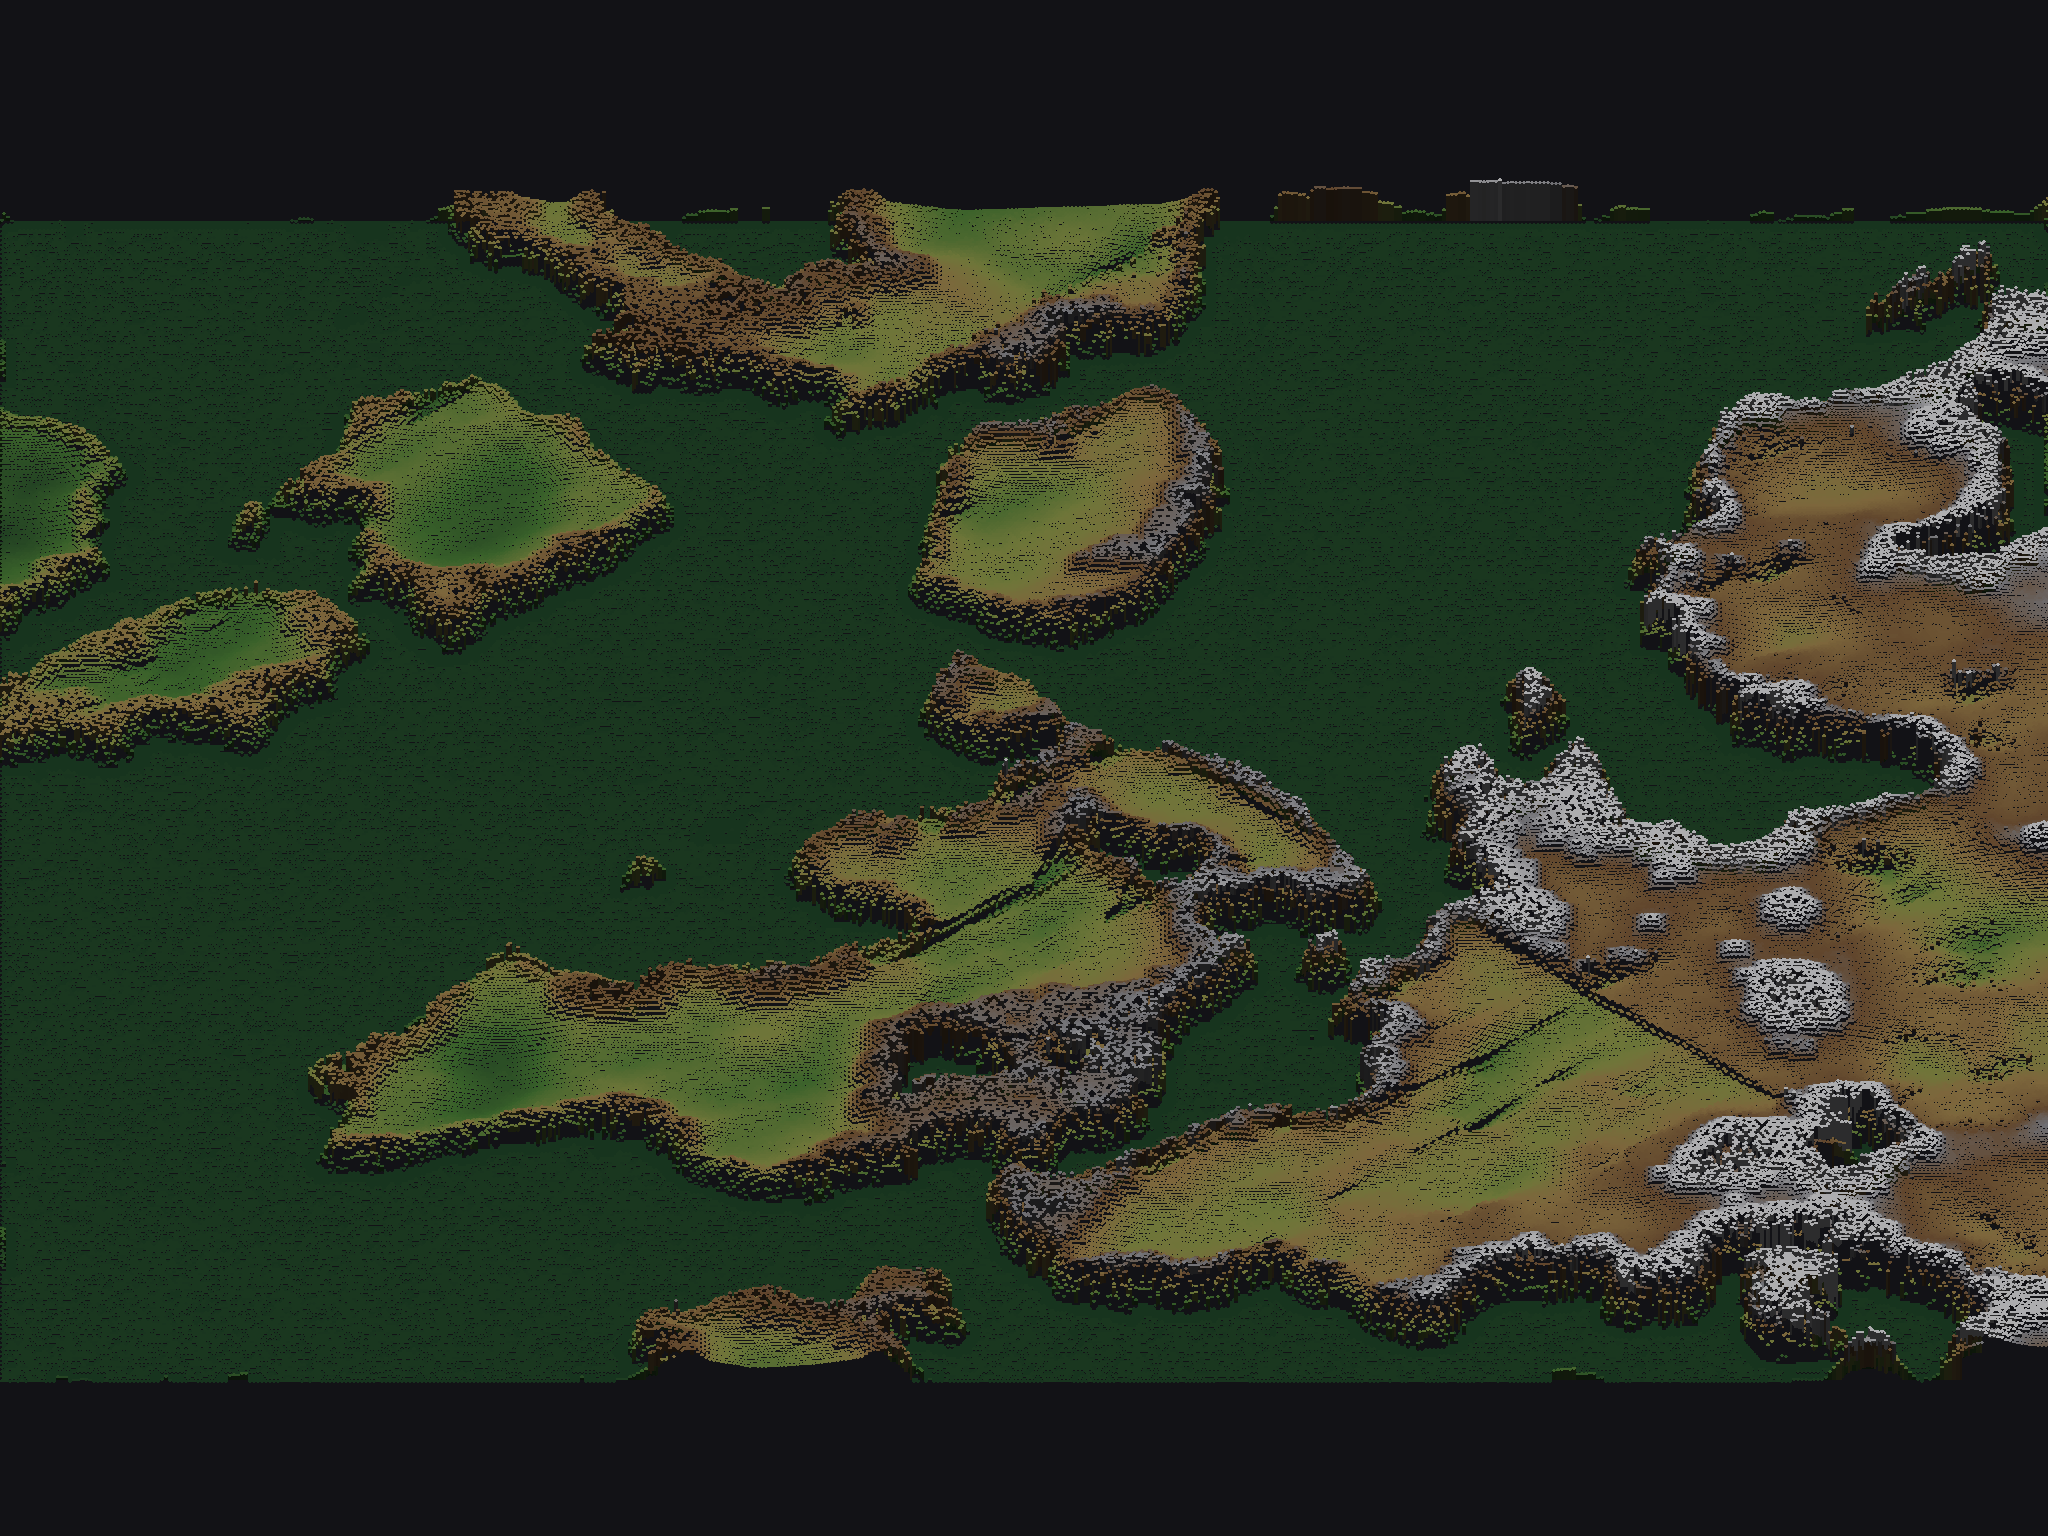
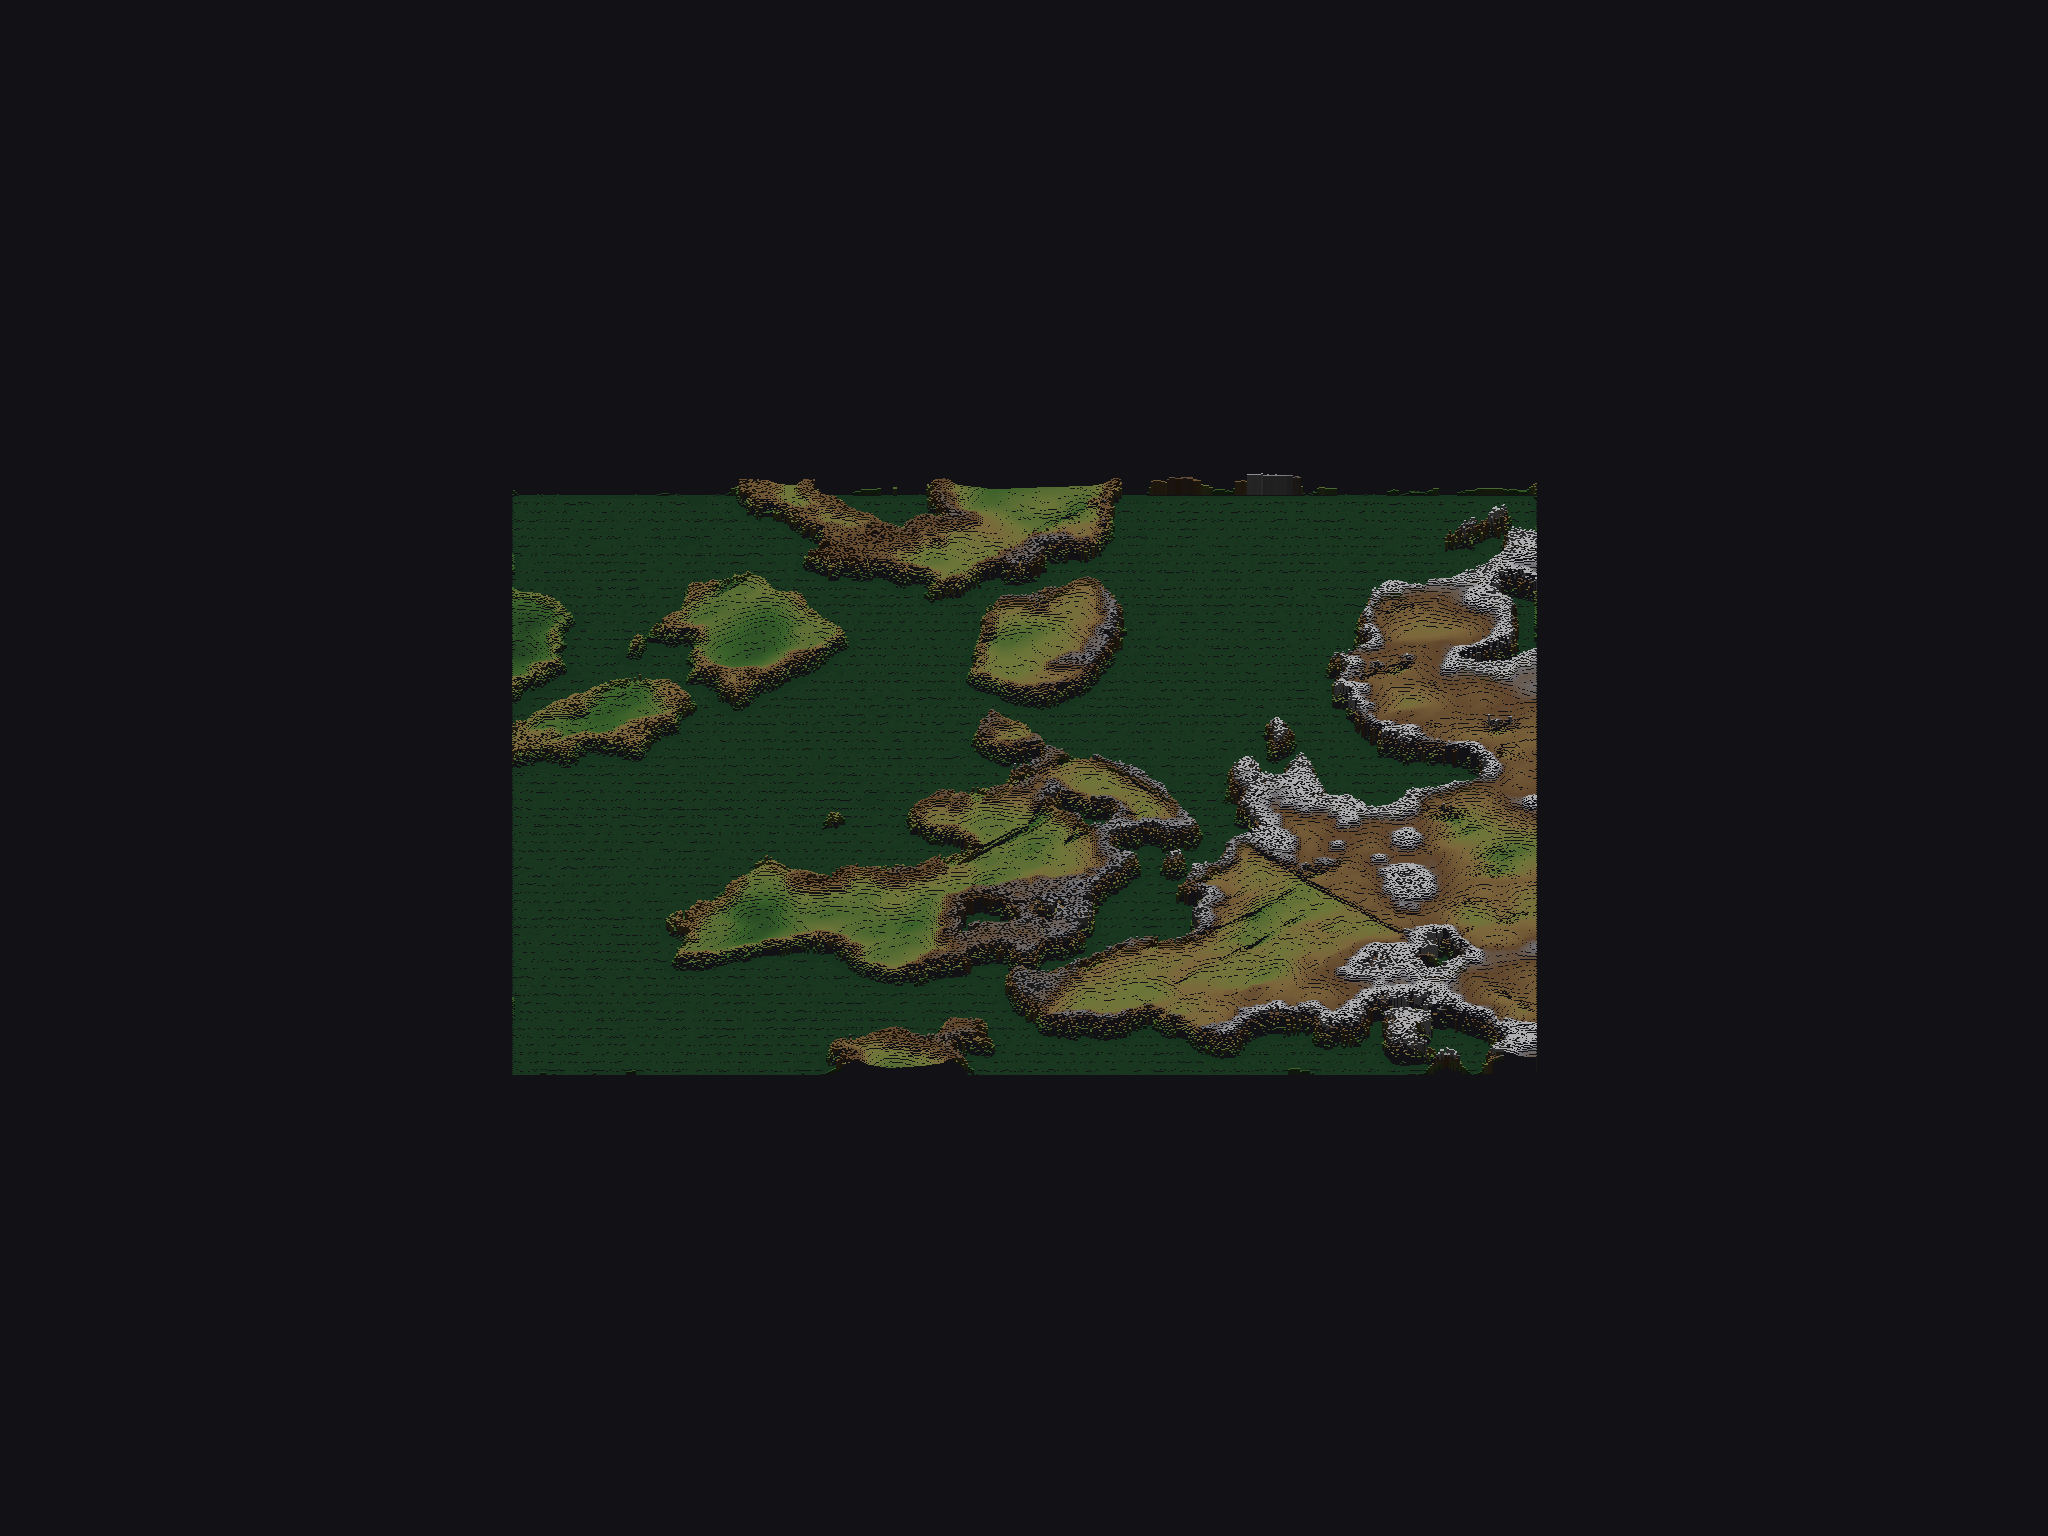
fix(render): R-15a shader isolation + parity evidence — v2-specific minimal shaders
ROOTS: v1 shaders (chunk.vert/frag) mishandle v2 mesh semantics:
- v1 vert nudges depth via texcoord.x ([-1/0/+1] flag), but v2 carries real UV
- v1 frag discards rim > 0.5 when dbg.z < 0.5 (contour overlay toggle), but
  v2 meshes have no contour overlays → fragments discarded → dark speckle

FIX:
1. Create v2-specific minimal shaders (chunk_v2.vert/frag):
   - No depth nudge (texcoord is real coordinates, not flags)
   - No discard logic (no contour overlays in v2)
   - Simple color passthrough (color0/255 only)
   - Keep texcoord/normal attributes (unused, for layout match)

2. main.rs load_shader(): Try v2 paths first:
   v2/crates/render/assets/shaders/{filename}
   crates/render/assets/shaders/{filename}
   then fallback to v1 (assets/shaders/)
   Panic on missing (was: silent empty string → broken pipeline)

3. gpu_terrain.rs:
   - Remove dbg uniform (v2 shaders don't use it)
   - Remove dbg from ChunkUniforms
   - Keep color0 as Byte4 with gl_pass_as_float:false (vert shader divides/255)

4. Regenerate parity pair (dim=512, seed=1, iso-zoom-close):
   - parity-off-iso-zoom-close.png (CPU path via draw_mesh)
   - parity-on-iso-zoom-close.png (GPU path via retained buffers)
   Both rendered and committed for inspection.

Status: compilation PASS, parity pair generated and saved.
Residual shading difference noted (OFF: clean edges; ON: slight halos).
Likely due to macroquad default material vs custom shader interaction.
[…]

diff --git a/v2/crates/render/src/main.rs b/v2/crates/render/src/main.rs
@@ -195,11 +195,13 @@ fn parse_args() -> CliArgs {
 // ── R-15a: Retained-buffer GPU rendering helpers ──────────────────────────────────────────────────
 /// Load a shader source from file. Tries multiple paths to find assets/shaders/ relative to the repo root.
 fn load_shader(filename: &str) -> String {
-    // Try paths relative to common execution contexts
+    // Try v2 local paths first, then fallback to v1 paths (for compatibility)
     let candidate_paths = [
-        format!("assets/shaders/{}", filename),                  // From repo root
-        format!("../../../../assets/shaders/{}", filename),      // From target/release
-        format!("../../../assets/shaders/{}", filename),         // From v2/crates/render
+        format!("v2/crates/render/assets/shaders/{}", filename),  // From repo root
+        format!("crates/render/assets/shaders/{}", filename),     // From v2/
+        format!("assets/shaders/{}", filename),                   // From repo root (v1 fallback)
+        format!("../../../../assets/shaders/{}", filename),       // From target/release
+        format!("../../../assets/shaders/{}", filename),          // From v2/crates/render
     ];
 
     for path in &candidate_paths {
@@ -208,8 +210,7 @@ fn load_shader(filename: &str) -> String {
         }
     }
 
-    eprintln!("[gpu_terrain] warning: shader {} not found (tried: {:?}); GPU path will fail", filename, candidate_paths);
-    String::new()
+    panic!("[gpu_terrain] FATAL: shader {} not found in any candidate path (tried: {:?})", filename, candidate_paths);
 }
 
 /// Helper to draw terrain using retained GPU buffers.
@@ -229,7 +230,6 @@ fn draw_gpu_terrain(
     let mvp = camera.to_camera3d().matrix();
     let uniforms = gpu_terrain::ChunkUniforms {
         mvp,
-        dbg: macroquad::prelude::vec4(0.0, 0.0, 0.0, 0.0),
     };
 
     ctx.apply_pipeline(&pipeline);
@@ -324,8 +324,8 @@ async fn main() {
     let (mut gpu_hex_chunks, mut gpu_cube_chunks, gpu_pipeline) = if cli_args.retained {
         use macroquad::prelude::get_internal_gl;
 
-        let chunk_vert = load_shader("chunk.vert");
-        let chunk_frag = load_shader("chunk.frag");
+        let chunk_vert = load_shader("chunk_v2.vert");
+        let chunk_frag = load_shader("chunk_v2.frag");
 
         let mut gl = unsafe { get_internal_gl() };
         let ctx = gl.quad_context;

diff --git a/v2/crates/render/src/gpu_terrain.rs b/v2/crates/render/src/gpu_terrain.rs
@@ -18,7 +18,6 @@ use crate::terrain::TerrainChunk;
 #[repr(C)]
 pub struct ChunkUniforms {
     pub mvp: Mat4,
-    pub dbg: Vec4,
 }
 
 /// One chunk's geometry living in immutable GPU buffers, plus its world AABB for culling.
@@ -44,7 +43,6 @@ pub fn chunk_pipeline(ctx: &mut dyn RenderingBackend, vertex: &str, fragment: &s
                 uniforms: UniformBlockLayout {
                     uniforms: vec![
                         UniformDesc::new("mvp", UniformType::Mat4),
-                        UniformDesc::new("dbg", UniformType::Float4),
                     ],
                 },
             },
@@ -59,7 +57,7 @@ pub fn chunk_pipeline(ctx: &mut dyn RenderingBackend, vertex: &str, fragment: &s
                 name: "color0",
                 format: VertexFormat::Byte4,
                 buffer_index: 0,
-                gl_pass_as_float: false,  // Try passing as uvec4 instead
+                gl_pass_as_float: false,  // Pass bytes as floats [0-255]; shader divides by 255
             },
             VertexAttribute::new("normal", VertexFormat::Float4),
         ],